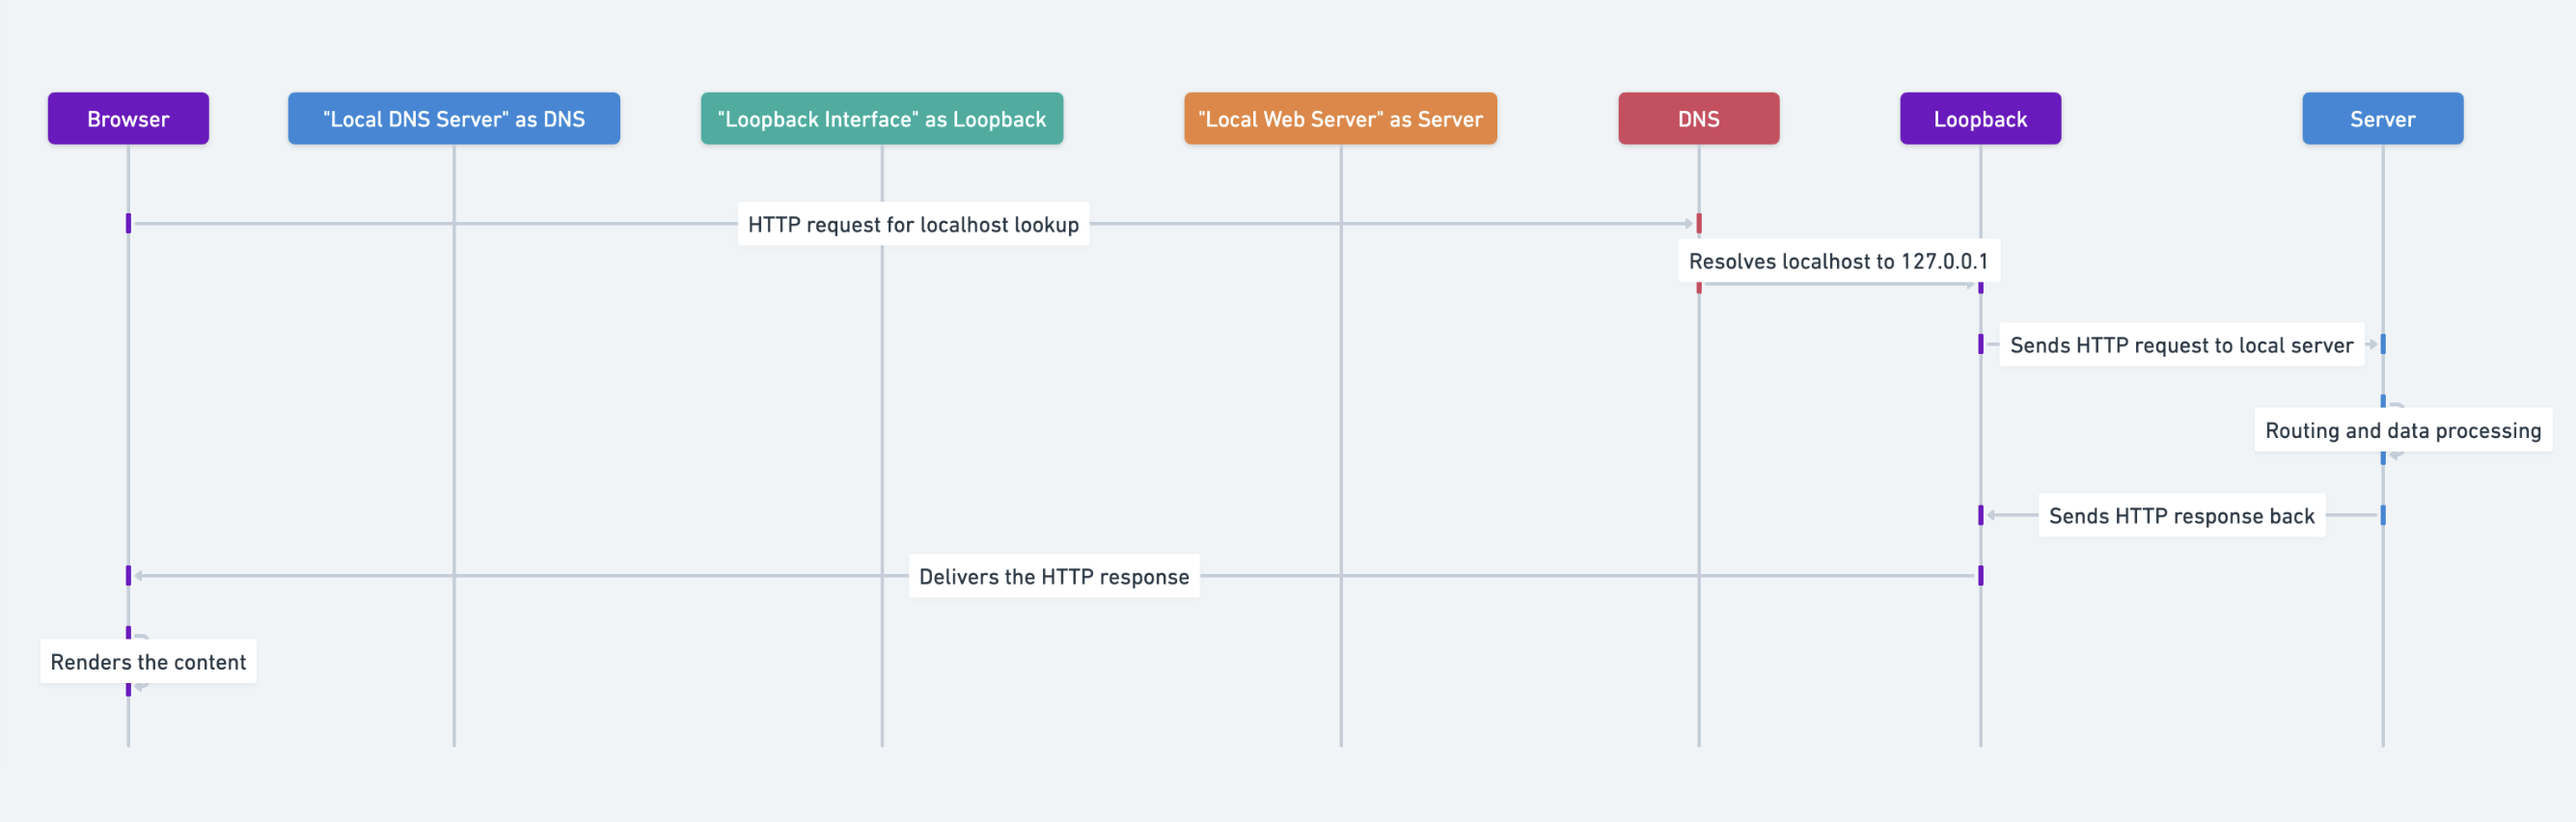
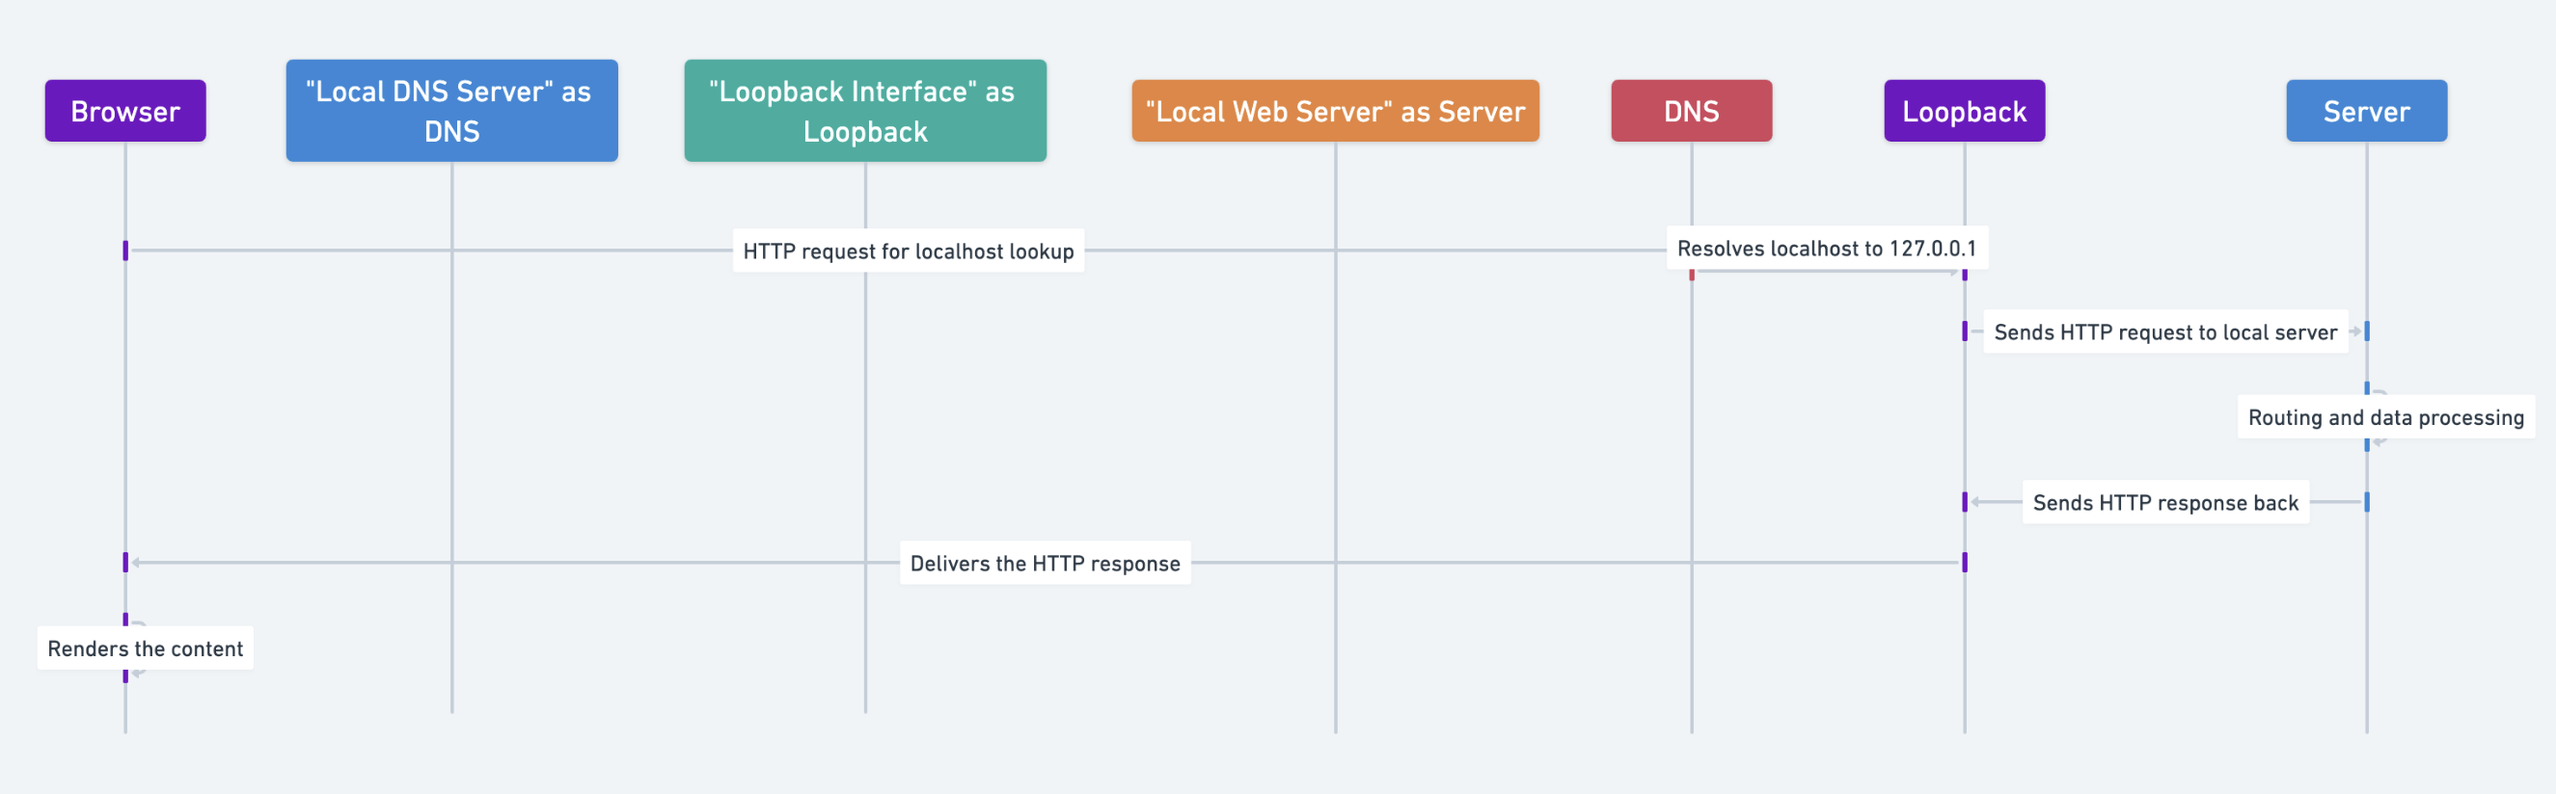
add images and enhance localhost blog content

diff --git a/content/blog/locahost.md b/content/blog/locahost.md
@@ -11,14 +11,14 @@ outputs:
   - AMP
 ---
 
-In the world of web development, whether you’re a front-end engineer spinning up a React app or a back-end developer building APIs, **localhost** is where it all begins. But what exactly happens when you type “localhost” into your browser? This deep dive unpacks the magic behind this essential tool, explaining its significance, inner workings, and how you can leverage it to supercharge your development workflow.
+In the world of development, whether you’re a back-end engineer spinning up a local webserver, or a frontend engineer starting a React app dev server, localhost is where it all begins. But what exactly happens when you type “localhost” into your browser? This deep dive unpacks the magic behind this essential tool, explaining its significance, inner workings, and how you can leverage it to supercharge your development workflow.
 
-{{< image "localhost/what_is_localhost.webp" "what is localhost" >}}
+{{< image "localhost/localhost.png" "what is localhost" >}}
 
 {{% tldr %}}
 
 1. **What is Localhost?**  
-   Localhost is a reserved domain name that always points back to your own computer (127.0.0.1 for IPv4, ::1 for IPv6). It allows developers to test and debug applications locally without an internet connection.
+   Localhost is a reserved domain name that always points back to your own computer (`127.0.0.1` for `IPv4`, `::1` for `IPv6`). It allows developers to test and debug applications locally without an internet connection.
 2. **Why Is Localhost Important?**
    - Facilitates rapid development and testing  
    - Provides a secure and isolated environment  
@@ -38,7 +38,7 @@ In the world of web development, whether you’re a front-end engineer spinning 
 
 ## What Is Localhost?
 
-Localhost is far more than just a convenient term—it’s a reserved domain name that always points back to your own computer. Think of it as your digital home address, a built-in alias your operating system uses to refer to itself. When you type “localhost” into your browser, you’re effectively sending a message to your own machine, instructing it to handle the request internally.
+Localhost is far more than just a convenient term, - it’s a reserved domain name that always points back to your own computer. Think of it as your digital home address, a built-in alias your operating system uses to refer to itself. When you type “localhost” into your browser, you’re effectively sending a message to your own machine, instructing it to handle the request internally.
 
 ### In-Depth Details:
 - **Self-Referencing Domain:**  
@@ -55,6 +55,8 @@ Localhost is typically mapped to the IP address **127.0.0.1** for IPv4 or **::1*
 ## Why Is Localhost Important?
 
 Localhost is an indispensable tool in the toolkit of developers and network engineers, primarily due to its role in creating a secure, efficient, and flexible development environment.
+
+Local instantiation of network protocols allows applications to communicate within a system without requiring an internet connection. Operating systems run the TCP/IP stack even when offline, enabling local applications to interact over the `localhost` (127.0.0.1) loopback interface. This setup facilitates secure testing, debugging, and inter-process communication without external network dependencies.
 
 ### Instant Feedback for Developers:
 - **Rapid Development Cycles:**  
@@ -137,11 +139,12 @@ The hosts file is a simple text file used by your operating system to map hostna
    - To do this, right-click the editor’s shortcut and select “Run as administrator.”
 
 3. **Add Custom Domain Mapping:**  
-   Once the file is open, add a new line for your custom domain. For example:
+   Once the file is open, add a new line for your custom domain. For example:  
    ```
    127.0.0.1   mycustomdomain.local
-   ```
-   This line tells your computer that any request for “mycustomdomain.local” should be redirected to 127.0.0.1—your own machine.
+   ::1         mycustomdomain.local
+   ```  
+   This tells your computer that any request for “mycustomdomain.local” should be redirected to `127.0.0.1` (IPv4) or `::1` (IPv6), both pointing to your own machine.
 
 4. **Save and Verify:**  
    After saving the file, open your browser and type `mycustomdomain.local` into the address bar. It should behave the same as typing `localhost`, effectively directing the request to your local server.
@@ -190,7 +193,13 @@ Understanding the different types of IP addresses is crucial for networking and 
 ### Private IP Addresses
 
 - **Definition and Scope:**  
-  Private IP addresses are used within local networks (like home Wi-Fi or office LANs) and are not routable on the public internet. Common private IP ranges include **192.168.x.x**, **10.x.x.x**, and **172.16.x.x**.
+  Private IP addresses are used within local networks (like home Wi-Fi or office LANs) and are not routable on the public internet. The exact private IP ranges are:  
+
+  - **10.0.0.0 – 10.255.255.255** (Class A)  
+  - **172.16.0.0 – 172.31.255.255** (Class B)  
+  - **192.168.0.0 – 192.168.255.255** (Class C)  
+
+These ranges are reserved by **RFC 1918** for private network use.
 - **Usage:**  
   Devices on your local network, such as computers, smartphones, and printers, are assigned private IP addresses. These addresses facilitate internal communication without direct exposure to the internet.
 - **Advantages:**  
@@ -243,9 +252,11 @@ print("Localhost IP:", ip_address)
 - **Explanation:**  
   This script uses the `socket` library to convert the hostname “localhost” into its corresponding IP address. It’s a straightforward way to verify that your system is correctly resolving localhost.
 
-## Accessing Localhost from Anywhere with Pinggy
+## Sharing Localhost Applications
 
 While localhost is great for local development, sharing your work with teammates or testing webhooks from external services can be tricky. Pinggy solves this by providing an easy way to expose your localhost to the internet using a secure tunnel. Whether you're showcasing a front-end app, testing APIs on a mobile device, or debugging webhooks, Pinggy offers a lightweight and reliable solution.
+
+Most ISPs do not provide a public IP address to individual users; instead, they assign private IPs due to Carrier-Grade NAT (CGNAT). CGNAT allows multiple users to share a single public IP, making direct inbound connections impossible. This is why tools like Pinggy are essential for exposing local services over the internet.
 
 ### Start Tunnel with One Command
 No installation is required! You can start a tunnel instantly using the following command:
@@ -266,7 +277,7 @@ For more details, check out the official [Pinggy Documentation](https://pinggy.i
 
 ## Conclusion
 
-Localhost is more than just a buzzword—it is the cornerstone of safe, efficient, and flexible development and testing. By understanding how to modify your hosts file, you can simulate real-world domain scenarios without the need for external DNS changes. Additionally, differentiating between public IPs, private IPs, and the special loopback address of localhost gives you a deeper insight into network architecture and security.
+Localhost is more than just a buzzword, — it is the cornerstone of safe, efficient, and flexible development and testing. By understanding how to modify your hosts file, you can simulate real-world domain scenarios without the need for external DNS changes. Additionally, differentiating between public IPs, private IPs, and the special loopback address of localhost gives you a deeper insight into network architecture and security.
 
 Experimenting with custom domain mappings and testing these configurations using tools like `ping`, Python, or Java not only enhances your debugging capabilities but also prepares you for more complex network setups. Whether you’re debugging a React app or building robust back-end APIs, mastering localhost is essential to streamline your development workflow.
 
